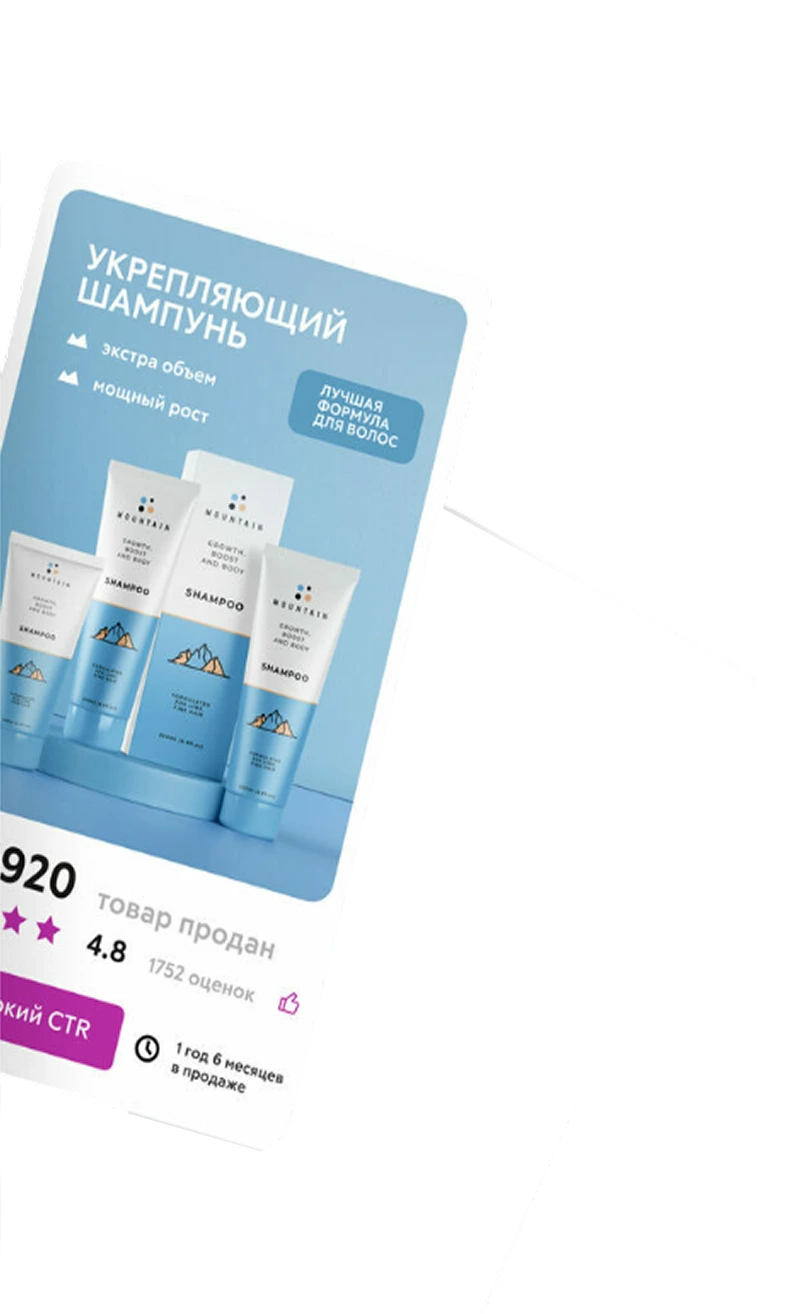
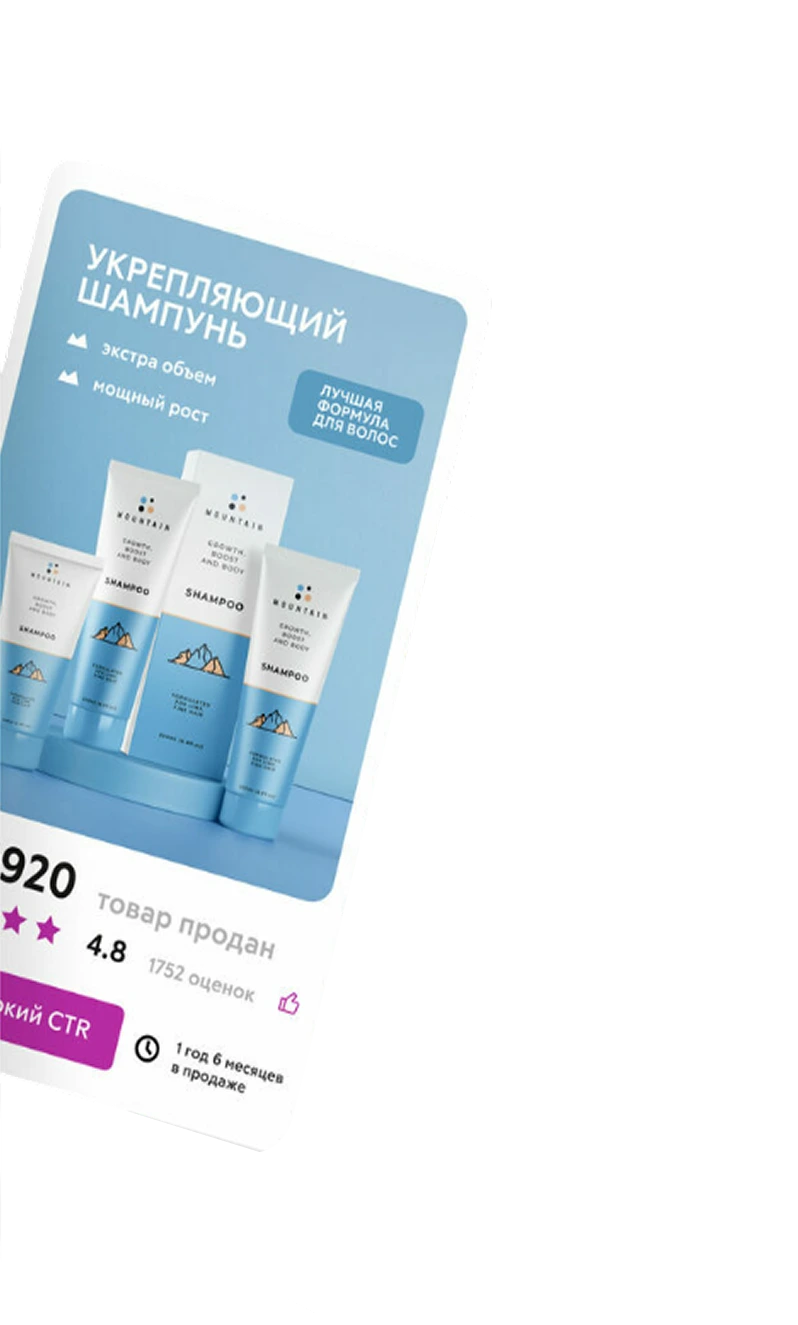
fix: поменял картинку, поправил анимацию

diff --git a/app/static/styles/styles.css b/app/static/styles/styles.css
@@ -362,8 +362,7 @@ body {
 .features__card-image {
   width: 100%;
   height: 100%;
-  -o-object-fit: contain;
-     object-fit: contain;
+  object-fit: contain;
   border-radius: 16px;
   display: block;
 }
@@ -371,7 +370,7 @@ body {
   width: 380px;
   height: 500px;
   opacity: 1;
-  transform: translate(-50%, -50%) scale(1) rotateY(0);
+  transform: translate(-50%, -50%) translateZ(40px) scale(1) rotateY(0);
   z-index: 3;
   filter: drop-shadow(0 20px 50px rgba(243, 188, 194, 0.7));
   left: 50%;
@@ -380,19 +379,19 @@ body {
   width: 500px;
   height: 600px;
   opacity: 0;
-  transform: translate(-50%, -50%) scale(0.9) rotateY(0);
+  transform: translate(-50%, -50%) translateZ(-40px) scale(0.9) rotateY(0);
   z-index: 1;
   filter: drop-shadow(0 8px 20px rgba(243, 188, 194, 0.3)) brightness(0.85);
   left: 50%;
-  animation: slideToFarLeft 1s ease-out forwards;
-  animation-delay: 0.3s;
+  animation: slideToFarLeft 0.9s ease-out forwards;
+  animation-delay: 0.25s;
   animation-play-state: paused;
 }
 .features__card--left {
   width: 280px;
   height: 380px;
   opacity: 0;
-  transform: translate(-50%, -50%) scale(1) rotateY(0);
+  transform: translate(-50%, -50%) translateZ(0) scale(1) rotateY(0);
   z-index: 2;
   filter: drop-shadow(0 12px 35px rgba(243, 188, 194, 0.5)) brightness(0.9);
   left: 50%;
@@ -404,7 +403,7 @@ body {
   width: 400px;
   height: 500px;
   opacity: 0;
-  transform: translate(-50%, -50%) scale(1) rotateY(0);
+  transform: translate(-50%, -50%) translateZ(0) scale(1) rotateY(0);
   z-index: 2;
   filter: drop-shadow(0 12px 35px rgba(243, 188, 194, 0.5)) brightness(0.9);
   left: 50%;
@@ -416,76 +415,76 @@ body {
   width: 320px;
   height: 420px;
   opacity: 0;
-  transform: translate(-50%, -50%) scale(0.9) rotateY(0);
+  transform: translate(-50%, -50%) translateZ(-40px) scale(0.9) rotateY(0);
   z-index: 1;
   filter: drop-shadow(0 8px 20px rgba(243, 188, 194, 0.3)) brightness(0.85);
   left: 50%;
-  animation: slideToFarRight 1s ease-out forwards;
-  animation-delay: 0.3s;
+  animation: slideToFarRight 0.9s ease-out forwards;
+  animation-delay: 0.25s;
   animation-play-state: paused;
 }
 @keyframes slideToLeft {
   0% {
-    opacity: 0;
-    transform: translate(-50%, -50%) scale(1) rotateY(0);
+    opacity: 1;
+    transform: translate(-50%, -50%) translateZ(0) scale(1) rotateY(0);
   }
   20% {
-    opacity: 0.3;
+    opacity: 1;
   }
   50% {
-    opacity: 0.7;
+    opacity: 1;
   }
   100% {
     opacity: 1;
-    transform: translate(calc(-50% - 225px), calc(-50% + 15px)) scale(1) rotateY(-8deg);
+    transform: translate(calc(-50% - 225px), calc(-50% + 15px)) translateZ(0) scale(1) rotateY(-8deg);
   }
 }
 @keyframes slideToRight {
   0% {
-    opacity: 0;
-    transform: translate(-50%, -50%) scale(1) rotateY(0);
+    opacity: 1;
+    transform: translate(-50%, -50%) translateZ(0) scale(1) rotateY(0);
   }
   20% {
-    opacity: 0.3;
+    opacity: 1;
   }
   50% {
-    opacity: 0.7;
+    opacity: 1;
   }
   100% {
     opacity: 1;
-    transform: translate(calc(-50% + 265px), calc(-50% + 15px)) scale(1) rotateY(8deg);
+    transform: translate(calc(-50% + 265px), calc(-50% + 15px)) translateZ(0) scale(1) rotateY(8deg);
   }
 }
 @keyframes slideToFarLeft {
   0% {
-    opacity: 0;
-    transform: translate(-50%, -50%) scale(0.9) rotateY(0);
+    opacity: 1;
+    transform: translate(-50%, -50%) translateZ(-40px) scale(0.9) rotateY(0);
   }
   20% {
-    opacity: 0.2;
+    opacity: 1;
   }
   50% {
-    opacity: 0.5;
+    opacity: 1;
   }
   100% {
     opacity: 1;
-    transform: translate(calc(-50% - 275px), calc(-50% + 43px)) scale(0.9) rotateY(-15deg);
+    transform: translate(calc(-50% - 275px), calc(-50% + 43px)) translateZ(-40px) scale(0.9) rotateY(-15deg);
   }
 }
 @keyframes slideToFarRight {
   0% {
-    opacity: 0;
-    transform: translate(-50%, -50%) scale(0.9) rotateY(0);
+    opacity: 1;
+    transform: translate(-50%, -50%) translateZ(-40px) scale(0.9) rotateY(0);
   }
   20% {
-    opacity: 0.2;
+    opacity: 1;
   }
   50% {
-    opacity: 0.5;
+    opacity: 1;
   }
   100% {
     opacity: 1;
-    transform: translate(calc(-50% + 288px), calc(-50% + 115px)) scale(0.9) rotateY(-10deg);
+    transform: translate(calc(-50% + 288px), calc(-50% + 115px)) translateZ(-40px) scale(0.9) rotateY(-10deg);
   }
 }
 .features.animated .features__card--farleft {
@@ -516,8 +515,8 @@ body {
 .features__item-description {
   font-family: "Montserrat", sans-serif;
   font-weight: 400;
-  font-size: 17px;
-  line-height: 1.6;
+  font-size: 15px;
+  line-height: 1.2;
   margin: 0 0 16px 0;
   color: #FFFFFF;
   text-align: left;
@@ -661,4 +660,6 @@ body {
   .pain-points__text {
     font-size: 16px;
   }
-}/*# sourceMappingURL=styles.css.map */
+}
+
+/*# sourceMappingURL=styles.css.map */

diff --git a/app/static/styles/components/index/features.scss b/app/static/styles/components/index/features.scss
@@ -68,7 +68,7 @@
       width: 380px; 
       height: 500px; 
       opacity: 1;
-      transform: translate(-50%, -50%) scale(1) rotateY(0);
+      transform: translate(-50%, -50%) translateZ(40px) scale(1) rotateY(0);
       z-index: 3;
       filter: drop-shadow(0 20px 50px rgba(243, 188, 194, 0.7));
       left: 50%;
@@ -78,12 +78,12 @@
       width: 500px;
       height: 600px;
       opacity: 0; 
-      transform: translate(-50%, -50%) scale(0.9) rotateY(0);
+      transform: translate(-50%, -50%) translateZ(-40px) scale(0.9) rotateY(0);
       z-index: 1;
       filter: drop-shadow(0 8px 20px rgba(243, 188, 194, 0.3)) brightness(0.85);
       left: 50%;
-      animation: slideToFarLeft 1s ease-out forwards;
-      animation-delay: 0.3s;
+      animation: slideToFarLeft 0.9s ease-out forwards;
+      animation-delay: 0.25s;
       animation-play-state: paused; 
     }
     
@@ -91,7 +91,7 @@
       width: 280px;
       height: 380px; 
       opacity: 0; 
-      transform: translate(-50%, -50%) scale(1) rotateY(0);
+      transform: translate(-50%, -50%) translateZ(0) scale(1) rotateY(0);
       z-index: 2;
       filter: drop-shadow(0 12px 35px rgba(243, 188, 194, 0.5)) brightness(0.9);
       left: 50%;
@@ -104,7 +104,7 @@
       width: 400px; 
       height: 500px; 
       opacity: 0; 
-      transform: translate(-50%, -50%) scale(1) rotateY(0);
+      transform: translate(-50%, -50%) translateZ(0) scale(1) rotateY(0);
       z-index: 2;
       filter: drop-shadow(0 12px 35px rgba(243, 188, 194, 0.5)) brightness(0.9);
       left: 50%;
@@ -117,81 +117,81 @@
       width: 320px;
       height: 420px;
       opacity: 0; 
-      transform: translate(-50%, -50%) scale(0.9) rotateY(0);
+      transform: translate(-50%, -50%) translateZ(-40px) scale(0.9) rotateY(0);
       z-index: 1;
       filter: drop-shadow(0 8px 20px rgba(243, 188, 194, 0.3)) brightness(0.85);
       left: 50%;
-      animation: slideToFarRight 1s ease-out forwards;
-      animation-delay: 0.3s;
+      animation: slideToFarRight 0.9s ease-out forwards;
+      animation-delay: 0.25s;
       animation-play-state: paused; 
     }
   }
   
   @keyframes slideToLeft {
     0% {
-      opacity: 0;
-      transform: translate(-50%, -50%) scale(1) rotateY(0);
+      opacity: 1;
+      transform: translate(-50%, -50%) translateZ(0) scale(1) rotateY(0);
     }
     20% {
-      opacity: 0.3;
+      opacity: 1;
     }
     50% {
-      opacity: 0.7;
+      opacity: 1;
     }
     100% {
       opacity: 1;
-      transform: translate(calc(-50% - 225px), calc(-50% + 15px)) scale(1) rotateY(-8deg);
+      transform: translate(calc(-50% - 225px), calc(-50% + 15px)) translateZ(0) scale(1) rotateY(-8deg);
     }
   }
   
   @keyframes slideToRight {
     0% {
-      opacity: 0;
-      transform: translate(-50%, -50%) scale(1) rotateY(0);
+      opacity: 1;
+      transform: translate(-50%, -50%) translateZ(0) scale(1) rotateY(0);
     }
     20% {
-      opacity: 0.3;
+      opacity: 1;
     }
     50% {
-      opacity: 0.7;
+      opacity: 1;
     }
     100% {
       opacity: 1;
-      transform: translate(calc(-50% + 265px), calc(-50% + 15px)) scale(1) rotateY(8deg);
+      transform: translate(calc(-50% + 265px), calc(-50% + 15px)) translateZ(0) scale(1) rotateY(8deg);
     }
   }
   
   @keyframes slideToFarLeft {
     0% {
-      opacity: 0;
-      transform: translate(-50%, -50%) scale(0.9) rotateY(0);
+      opacity: 1;
+      transform: translate(-50%, -50%) translateZ(-40px) scale(0.9) rotateY(0);
     }
     20% {
-      opacity: 0.2;
+      opacity: 1;
     }
     50% {
-      opacity: 0.5;
+      opacity: 1;
     }
     100% {
       opacity: 1;
-      transform: translate(calc(-50% - 275px), calc(-50% + 43px)) scale(0.9) rotateY(-15deg);
+      transform: translate(calc(-50% - 275px), calc(-50% + 43px)) translateZ(-40px) scale(0.9) rotateY(-15deg);
     }
   }
   
   @keyframes slideToFarRight {
     0% {
-      opacity: 0;
-      transform: translate(-50%, -50%) scale(0.9) rotateY(0);
+      opacity: 1;
+      transform: translate(-50%, -50%) translateZ(-40px) scale(0.9) rotateY(0);
     }
     20% {
-      opacity: 0.2;
+      opacity: 1;
     }
     50% {
-      opacity: 0.5;
+      opacity: 1;
     }
     100% {
       opacity: 1;
-      transform: translate(calc(-50% + 288px), calc(-50% + 115px)) scale(0.9) rotateY(-10deg);
+      transform: translate(calc(-50% + 288px), calc(-50% + 115px)) translateZ(-40px) scale(0.9) rotateY(-10deg);
     }
   }
   
@@ -234,8 +234,8 @@
   &__item-description {
     font-family: "Montserrat", sans-serif;
     font-weight: 400;
-    font-size: 17px;
-    line-height: 1.6;
+    font-size: 15px;
+    line-height: 1.2;
     margin: 0 0 16px 0;
     color: $color-base-white;
     text-align: left;

diff --git a/app/templates/components/parts/index/features.html b/app/templates/components/parts/index/features.html
@@ -50,7 +50,7 @@
                    class="features__card-image">
             </div>
             
-            <div class="features__card features__card--center">
+            <div style="z-index: 111;" class="features__card features__card--center">
               <img src="{{ url_for('static', filename='images/index/featuresOverview/firstBlock/Center.webp') }}" 
                    alt="Center" 
                    class="features__card-image">